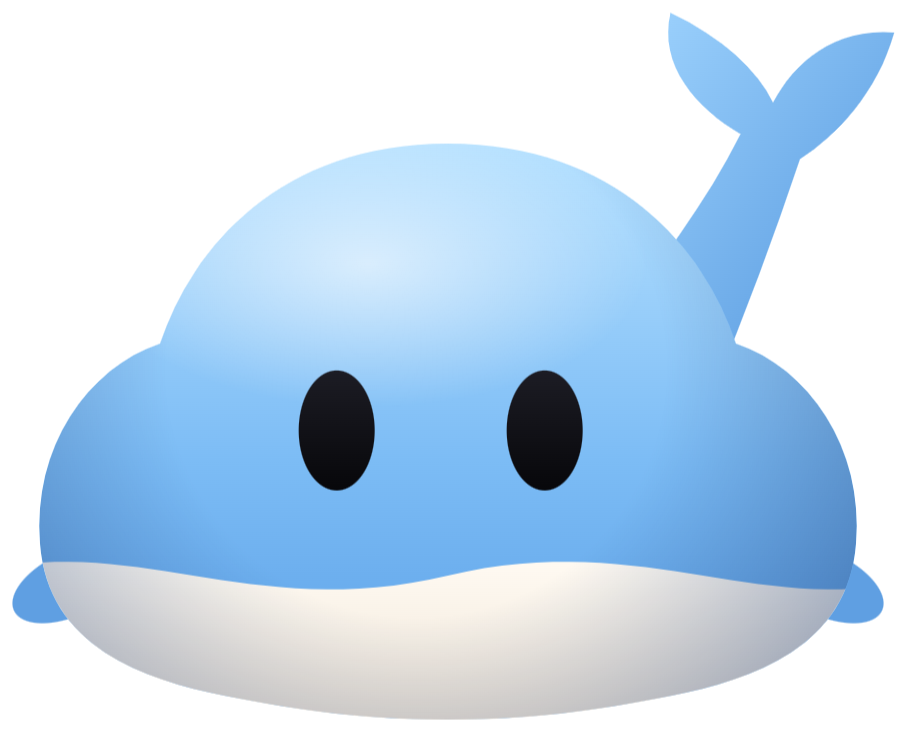
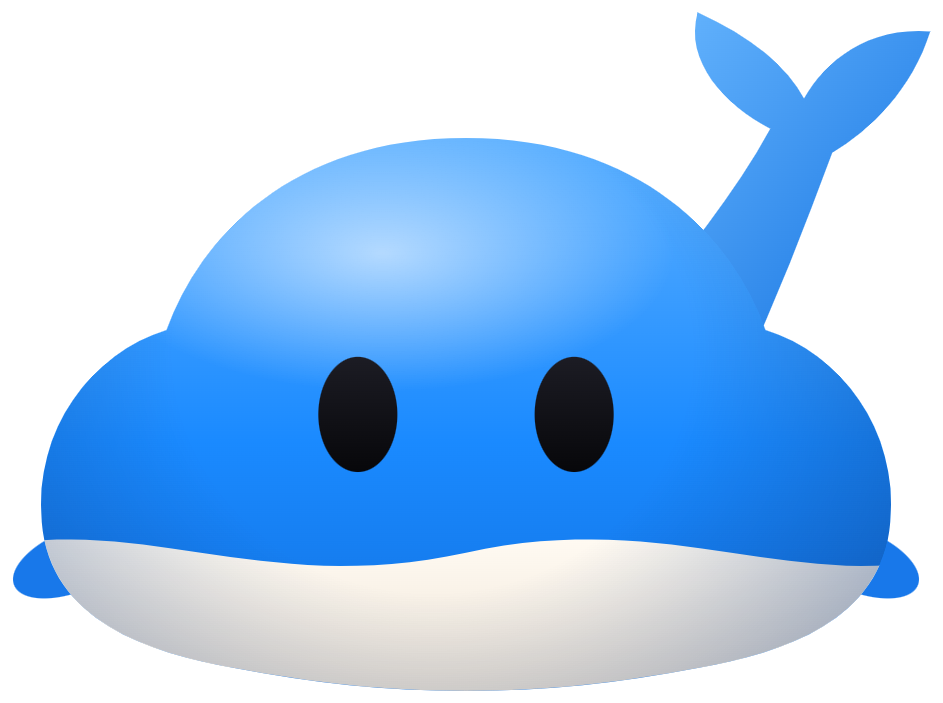
Intro com close no rosto da Wole, cores novas e mar que fica mais azul conforme enche

diff --git a/src/features/whale/Whale.jsx b/src/features/whale/Whale.jsx
@@ -37,28 +37,28 @@ function HappyEyes() {
 
 // só o desenho. quem mexe é o useWhaleMotion
 // memo pra não redesenhar o SVG toda vez que o relógio do pet atualiza
-export const Whale = memo(function Whale({ mood, expression }) {
+export const Whale = memo(function Whale({ mood, expression, flat = false }) {
   const asleep = expression === "asleep";
   const joyful = !asleep && (mood === "ecstatic" || expression === "excited" || expression === "loved");
   const eyeState = asleep ? "asleep" : mood === "sad" ? "sad" : "open";
 
   return (
-    <svg className={`whale whale--${eyeState}`} viewBox="0 -40 240 220" aria-hidden="true">
+    <svg className={`whale whale--${eyeState} ${flat ? "whale--flat" : ""}`} viewBox="0 -40 240 220" aria-hidden="true">
       <defs>
         <clipPath id="whale-clip">
           <path d={BODY} />
         </clipPath>
 
         <linearGradient id="whale-body" x1="0" y1="0" x2="0" y2="1">
-          <stop offset="0" stopColor="#b6e1ff" />
-          <stop offset="0.55" stopColor="#7cbcf5" />
-          <stop offset="1" stopColor="#5a9fe6" />
+          <stop offset="0" stopColor="#5cb0ff" />
+          <stop offset="0.55" stopColor="#1a8aff" />
+          <stop offset="1" stopColor="#1170e0" />
         </linearGradient>
 
         {/* borda mais escura dá o volume */}
         <radialGradient id="whale-depth" gradientUnits="userSpaceOnUse" cx="112" cy="92" r="125">
-          <stop offset="0.5" stopColor="#1d3f7a" stopOpacity="0" />
-          <stop offset="1" stopColor="#1d3f7a" stopOpacity="0.4" />
+          <stop offset="0.5" stopColor="#0a3478" stopOpacity="0" />
+          <stop offset="1" stopColor="#0a3478" stopOpacity="0.35" />
         </radialGradient>
 
         {/* luz fosca em cima. antes era um blur no SVG mas ele era recalculado
@@ -74,8 +74,8 @@ export const Whale = memo(function Whale({ mood, expression }) {
         </linearGradient>
 
         <linearGradient id="whale-tail" x1="0" y1="0" x2="1" y2="1">
-          <stop offset="0" stopColor="#a2d6ff" />
-          <stop offset="1" stopColor="#4f93dc" />
+          <stop offset="0" stopColor="#6ab8ff" />
+          <stop offset="1" stopColor="#1170e0" />
         </linearGradient>
 
         <linearGradient id="whale-eye" x1="0" y1="0" x2="0" y2="1">
@@ -104,10 +104,10 @@ export const Whale = memo(function Whale({ mood, expression }) {
 
       {/* o rotate fica na ellipse e a animação no <g>, senão um sobrescreve o outro */}
       <g className="whale__fin whale__fin--left">
-        <ellipse cx="26" cy="146" rx="16" ry="8" fill="#5f9fe2" transform="rotate(-25 26 146)" />
+        <ellipse cx="26" cy="146" rx="16" ry="8" fill="#1878ea" transform="rotate(-25 26 146)" />
       </g>
       <g className="whale__fin whale__fin--right">
-        <ellipse cx="214" cy="146" rx="16" ry="8" fill="#5f9fe2" transform="rotate(25 214 146)" />
+        <ellipse cx="214" cy="146" rx="16" ry="8" fill="#1878ea" transform="rotate(25 214 146)" />
       </g>
 
       <path d={BODY} fill="url(#whale-body)" />
@@ -116,6 +116,14 @@ export const Whale = memo(function Whale({ mood, expression }) {
         <path d={BELLY} fill="url(#whale-belly)" />
         <path d={BODY} fill="url(#whale-depth)" />
         <ellipse cx="100" cy="66" rx="70" ry="36" fill="url(#whale-light)" />
+      </g>
+
+      {/* azul liso por cima de tudo, pro close da intro ficar igual ao fundo */}
+      <g className="whale__flat">
+        <path d={TAIL} />
+        <path d={BODY} />
+        <ellipse cx="26" cy="146" rx="16" ry="8" transform="rotate(-25 26 146)" />
+        <ellipse cx="214" cy="146" rx="16" ry="8" transform="rotate(25 214 146)" />
       </g>
 
       <g className="whale__eyes">{joyful ? <HappyEyes /> : <OpenEyes />}</g>

diff --git a/src/features/whale/useIntroZoom.js b/src/features/whale/useIntroZoom.js
@@ -1,0 +1,53 @@
+import { useLayoutEffect, useRef } from "react";
+
+// rosto dentro do viewBox (0 -40 240 220)
+const FACE = { x: 120, y: 102 };
+const VIEWBOX = { width: 240, height: 220, top: -40 };
+const EYE_HEIGHT = 30; // altura do olho em unidades do SVG
+const EYES_SPAN = 72; // de uma ponta à outra dos dois olhos
+
+const ZOOM_OUT = { duration: 1200, easing: "cubic-bezier(.65, 0, .25, 1)" };
+
+// close no rosto: olho com ~20% da altura da tela (o fundo azul cobre o resto)
+function closeUp(stage) {
+  const box = stage.getBoundingClientRect();
+  const unit = box.width / VIEWBOX.width; // px por unidade do SVG
+  const faceX = box.left + FACE.x * unit;
+  const faceY = box.top + (FACE.y - VIEWBOX.top) * unit;
+
+  const halfW = window.innerWidth / 2;
+  const halfH = window.innerHeight / 2;
+  const scale = Math.min(
+    (window.innerHeight * 0.2) / (EYE_HEIGHT * unit),
+    (window.innerWidth * 0.6) / (EYES_SPAN * unit), // no celular não deixa os olhos saírem da tela
+  );
+
+  return {
+    origin: `${(FACE.x / VIEWBOX.width) * 100}% ${((FACE.y - VIEWBOX.top) / VIEWBOX.height) * 100}%`,
+    transform: `translate(${halfW - faceX}px, ${halfH - faceY}px) scale(${scale})`,
+  };
+}
+
+// intro: começa colada no rosto dela e depois a "câmera" se afasta
+export function useIntroZoom({ stageRef, layerRef, intro }) {
+  const start = useRef(null);
+
+  // antes do primeiro paint, pra não piscar a cena normal
+  useLayoutEffect(() => {
+    if (!intro) return;
+    start.current = closeUp(stageRef.current);
+    layerRef.current.style.transformOrigin = start.current.origin;
+    layerRef.current.style.transform = start.current.transform;
+    // só na montagem
+    // eslint-disable-next-line react-hooks/exhaustive-deps
+  }, []);
+
+  useLayoutEffect(() => {
+    const layer = layerRef.current;
+    if (intro || !start.current) return;
+
+    layer.style.transform = "";
+    layer.animate([{ transform: start.current.transform }, { transform: "none" }], ZOOM_OUT);
+    start.current = null;
+  }, [intro, layerRef]);
+}

diff --git a/src/features/whale/WhalePet.jsx b/src/features/whale/WhalePet.jsx
@@ -1,4 +1,6 @@
+import { useRef } from "react";
 import { Whale } from "./Whale";
+import { useIntroZoom } from "./useIntroZoom";
 import { useWhaleMotion } from "./useWhaleMotion";
 import "./WhalePet.css";
 
@@ -9,6 +11,8 @@ export function WhalePet({ mood, expression, asleep, reaction, intro = false, on
     reaction,
     still: intro,
   });
+  const introRef = useRef(null);
+  useIntroZoom({ stageRef, layerRef: introRef, intro });
   const showHearts = !asleep && (mood === "ecstatic" || expression === "loved");
 
   function handleKeyDown(event) {
@@ -37,10 +41,10 @@ export function WhalePet({ mood, expression, asleep, reaction, intro = false, on
         onClick={onPet}
         onKeyDown={handleKeyDown}
       >
-        <div className="pet__layer pet__layer--intro">
+        <div ref={introRef} className="pet__intro">
           <div ref={floatRef} className="pet__layer">
             <div ref={reactionRef} className="pet__layer pet__layer--reaction">
-              <Whale mood={mood} expression={expression} />
+              <Whale mood={mood} expression={expression} flat={intro} />
             </div>
           </div>
         </div>

diff --git a/src/features/ocean/Ocean.css b/src/features/ocean/Ocean.css
@@ -1,12 +1,24 @@
+/* registrada pra dar pra fazer transição da cor conforme o mar enche */
+@property --depth {
+  syntax: "<number>";
+  inherits: true;
+  initial-value: 0;
+}
+
 /* o mar tem sempre a altura da tela e sobe com transform, animar height travava */
 .ocean {
+  --ocean-top: color-mix(in oklab, var(--ocean-shallow-top), var(--ocean-deep-top) calc(var(--depth) * 100%));
+  --ocean-bottom: color-mix(in oklab, var(--ocean-shallow-bottom), var(--ocean-deep-bottom) calc(var(--depth) * 100%));
+
   position: fixed;
   inset: 0;
   background: linear-gradient(var(--ocean-top), var(--ocean-bottom));
-  transition: transform 1.2s cubic-bezier(0.25, 1.15, 0.4, 1);
+  transition:
+    transform 1.2s cubic-bezier(0.25, 1.15, 0.4, 1),
+    --depth 1.2s var(--ease-standard);
   will-change: transform;
   /* translate é separado do transform, então dá pra animar a entrada sem brigar com o nível do mar */
-  animation: ocean-intro 1s cubic-bezier(0.2, 0.8, 0.3, 1) both;
+  animation: ocean-intro 1.2s cubic-bezier(0.2, 0.8, 0.3, 1) 2.3s both;
 }
 
 .ocean__waves {

diff --git a/src/features/intro/useIntro.js b/src/features/intro/useIntro.js
@@ -1,9 +1,9 @@
 import { useEffect, useState } from "react";
 import { prefersReducedMotion } from "../whale/motion";
 
-const EYES_CLOSED_MS = 1000; // grande e de olho fechado
-const EYES_OPEN_MS = 700; // abriu o olho, ainda grande
-const SHRINK_MS = 700; // tempo de encolher antes do "oi"
+const EYES_CLOSED_MS = 1200; // tela toda azul, olho fechado
+const EYES_OPEN_MS = 900; // abriu o olho, ainda de pertinho
+const ZOOM_OUT_MS = 1200; // câmera se afastando até a cena normal
 
 // fases da intro: "sleeping" -> "awake" -> "done"
 export function useIntro({ onGreet }) {
@@ -14,7 +14,7 @@ export function useIntro({ onGreet }) {
     const timers = [
       setTimeout(() => setPhase("awake"), EYES_CLOSED_MS),
       setTimeout(() => setPhase("done"), EYES_CLOSED_MS + EYES_OPEN_MS),
-      setTimeout(onGreet, EYES_CLOSED_MS + EYES_OPEN_MS + SHRINK_MS),
+      setTimeout(onGreet, EYES_CLOSED_MS + EYES_OPEN_MS + ZOOM_OUT_MS),
     ];
     return () => timers.forEach(clearTimeout);
     // roda uma vez só, na entrada da página

diff --git a/src/features/whale/WhalePet.css b/src/features/whale/WhalePet.css
@@ -8,7 +8,7 @@
 /*
   camadas, de fora pra dentro:
   .pet__stage            -> recebe o clique / teclado
-  .pet__layer--intro     -> tamanho grande da intro
+  .pet__intro            -> zoom da intro (useIntroZoom)
   .pet__layer (2ª)       -> flutuar (useWhaleMotion, todo frame)
   .pet__layer--reaction  -> pulo e carinho (Web Animations, somado por cima)
 */
@@ -33,13 +33,9 @@
   transform-origin: 50% 85%;
 }
 
-/* intro: começa grande e encolhe pro tamanho normal com uma mola */
-.pet__layer--intro {
-  transition: transform 0.75s var(--ease-spring);
-}
-
-.pet--intro .pet__layer--intro {
-  transform: scale(1.45);
+/* sem will-change na camada da intro: senão o navegador rasteriza pequeno e fica borrado no zoom */
+.pet__intro {
+  position: relative;
 }
 
 /* a sombra só aparece quando ela já está no tamanho normal */

diff --git a/src/features/whale/Whale.css b/src/features/whale/Whale.css
@@ -17,6 +17,22 @@
 .whale__fin--left  { transform-origin: right center; }
 .whale__fin--right { transform-origin: left center; }
 
+/* no close da intro ela fica lisa; quando a câmera afasta o 3D volta aos poucos */
+.whale__flat {
+  fill: var(--wole-blue);
+  /* o contorno da mesma cor tampa o antialiasing da borda, senão aparecia o desenho por baixo */
+  stroke: var(--wole-blue);
+  stroke-width: 2;
+  opacity: 0;
+  pointer-events: none;
+  transition: opacity 0.9s var(--ease-standard) 0.15s;
+}
+
+.whale--flat .whale__flat {
+  opacity: 1;
+  transition: none;
+}
+
 /* ---------- olhos (todas as expressões ficam aqui) ---------- */
 .whale__eye {
   transform-box: fill-box;

diff --git a/src/App.css b/src/App.css
@@ -9,11 +9,25 @@
   padding: var(--space-md);
 }
 
+/* fundo azul da Wole no close da intro, some quando a câmera afasta */
+.intro-backdrop {
+  position: fixed;
+  inset: 0;
+  background: var(--wole-blue);
+  pointer-events: none;
+  transition: opacity 0.6s var(--ease-standard), visibility 0s 0.6s;
+}
+
+.intro-backdrop.is-gone {
+  opacity: 0;
+  visibility: hidden;
+}
+
 .app__actions {
   display: flex;
   flex-direction: column;
   align-items: center;
   gap: var(--space-md);
   /* entra depois que a Wole já chegou e deu oi */
-  animation: fade-up 0.6s var(--ease-standard) 2.2s both;
+  animation: fade-up 0.6s var(--ease-standard) 3.2s both;
 }

diff --git a/src/styles/tokens.css b/src/styles/tokens.css
@@ -11,10 +11,15 @@
   --accent: #0071e3;
   --fill-tertiary: rgba(120, 120, 128, 0.12);
 
-  --ocean-top: #7cc8f6;
-  --ocean-bottom: #3d9be6;
-  --ocean-wave-mid: #a6dafa;
-  --ocean-wave-back: #cdeaff;
+  --wole-blue: #1a8aff;
+
+  /* o mar começa raso (azul clarinho, puxando pro verde) e fica azul fundo quando enche */
+  --ocean-shallow-top: #5cc8e0;
+  --ocean-shallow-bottom: #2a9cc8;
+  --ocean-deep-top: #2a8ff0;
+  --ocean-deep-bottom: #0b4fae;
+  --ocean-wave-mid: #95d8f0;
+  --ocean-wave-back: #cdeefa;
 
   --space-xs: 4px;
   --space-sm: 8px;

diff --git a/src/features/ocean/Ocean.jsx b/src/features/ocean/Ocean.jsx
@@ -31,7 +31,11 @@ function wavePath(crests, height) {
 
 export const Ocean = memo(function Ocean({ level }) {
   return (
-    <div className="ocean" style={{ transform: `translateY(${100 - level}%)` }} aria-hidden="true">
+    <div
+      className="ocean"
+      style={{ transform: `translateY(${100 - level}%)`, "--depth": level / 100 }}
+      aria-hidden="true"
+    >
       <div className="ocean__waves">
         {WAVES.map((wave) => (
           <svg

diff --git a/src/App.jsx b/src/App.jsx
@@ -13,6 +13,7 @@ export default function App() {
   return (
     <>
       <Ocean level={pet.water} />
+      <div className={`intro-backdrop ${phase === "done" ? "is-gone" : ""}`} aria-hidden="true" />
 
       <main className="app">
         <WhalePet
